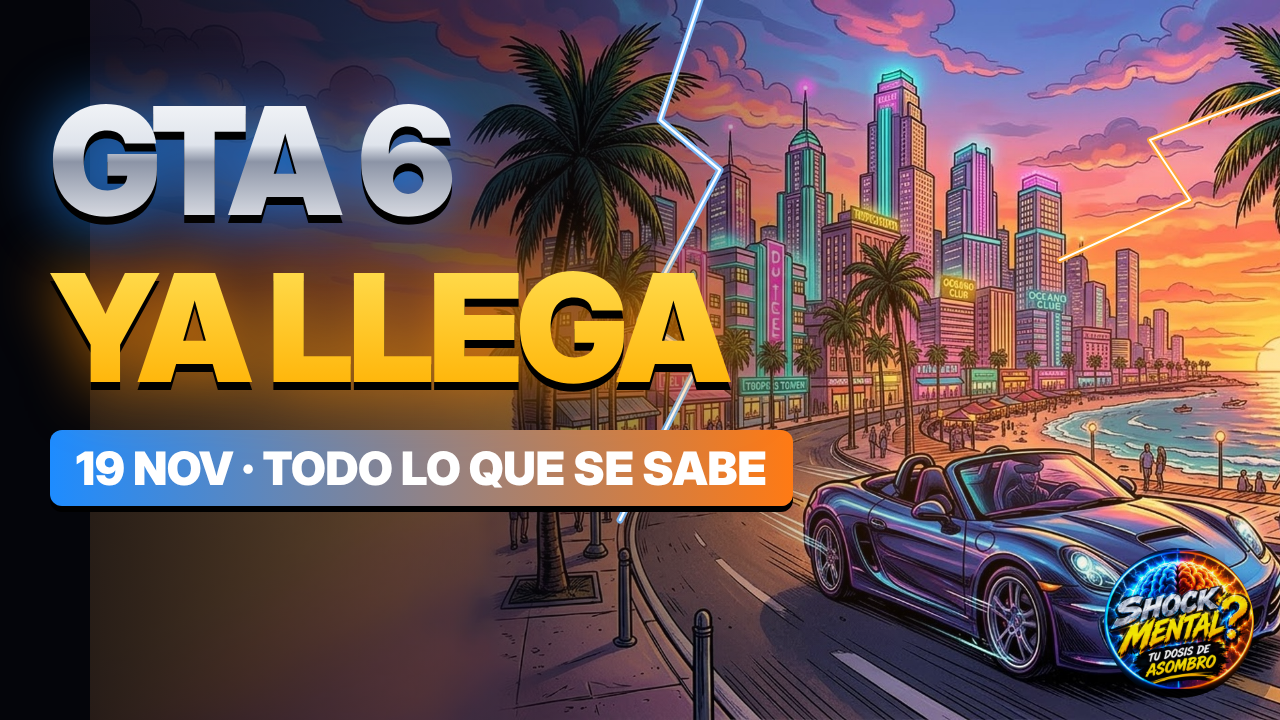
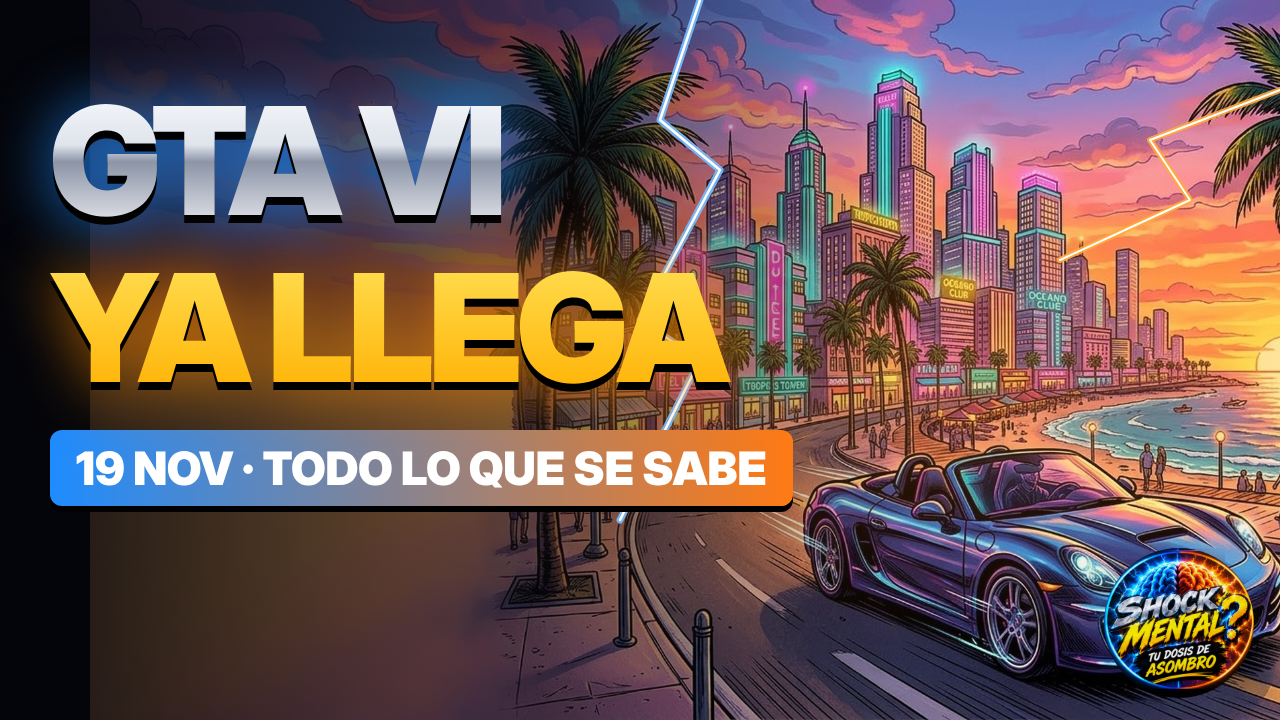
Dosis #4: GTA VI en números romanos, arte oficial en la entrada, miniaturas A y B
Claude-Session: https://claude.ai/code/session_01FFY2jxoJ1d3mmfuku7Aqqj

Changed region(s): [[0.2812, 0.1222, 0.4375, 0.3361]]

diff --git a/docs/shockmental/05-dosis04.md b/docs/shockmental/05-dosis04.md
@@ -1,6 +1,6 @@
 # Dosis de Asombro #4 · Publicación
 
-**Vídeo:** `produccion/shock04/salida/video.mp4` (4:10) · **Miniatura:** `miniaturas/shock04/miniatura-A.png`
+**Vídeo:** `produccion/shock04/salida/video.mp4` (4:10) · **Miniatura:** `miniaturas/shock04/miniatura-B.png` (arte oficial) o `miniatura-A.png` (ilustración de IA)
 
 ⚠ **Publicar antes del 19 de noviembre de 2026** (día del lanzamiento de GTA 6).
 
@@ -41,7 +41,7 @@ GTA 6 sale el 19 de noviembre de 2026: trece años de espera, dos retrasos y una
 - Adventure y su sala secreta: https://en.wikipedia.org/wiki/Adventure_(1980_video_game)
 - Minecraft: https://en.wikipedia.org/wiki/Minecraft
 - Foldit: https://en.wikipedia.org/wiki/Foldit
-- Imágenes: capturas y arte oficial de GTA VI © Rockstar Games / Take-Two Interactive (rockstargames.com/VI), usadas con fines informativos. La ilustración de la ciudad del principio y del final está generada con IA y no es una imagen del juego. Vídeos: Pexels (pexels.com).
+- Imágenes: capturas y arte oficial de GTA VI © Rockstar Games / Take-Two Interactive (rockstargames.com/VI), usadas con fines informativos. Vídeos: Pexels (pexels.com).
 - Música: "Wallpaper" de Kevin MacLeod (incompetech.com), Licencia CC BY 4.0 http://creativecommons.org/licenses/by/4.0/
 
 Este canal no está afiliado a Rockstar Games ni a Take-Two Interactive. Grand Theft Auto es una marca de sus respectivos propietarios.
